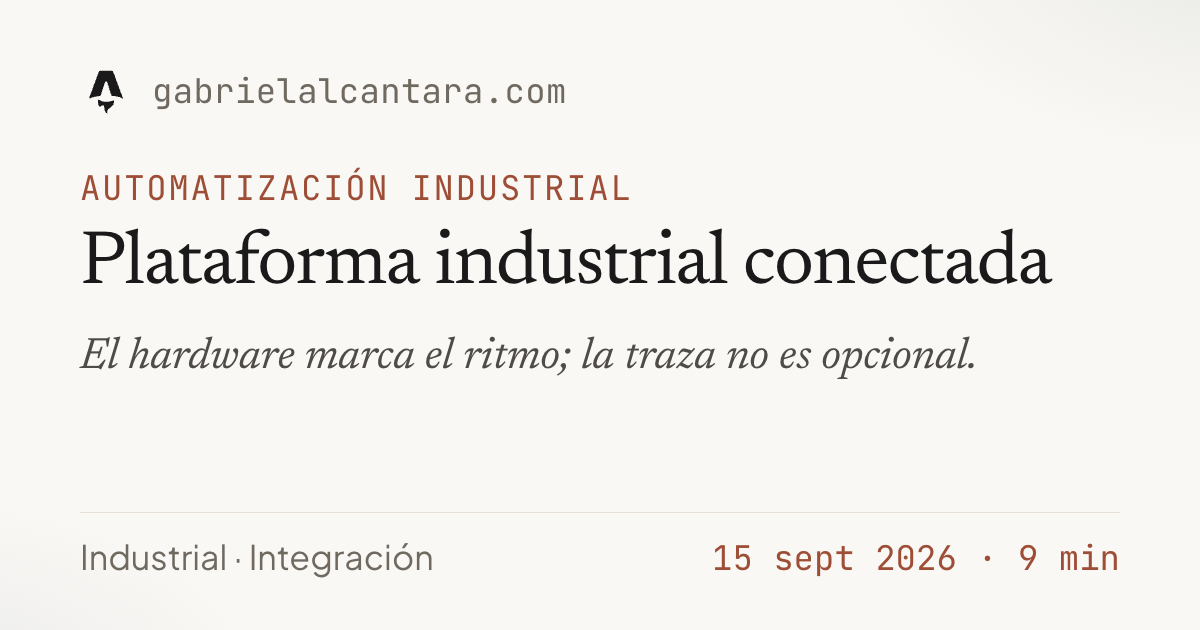
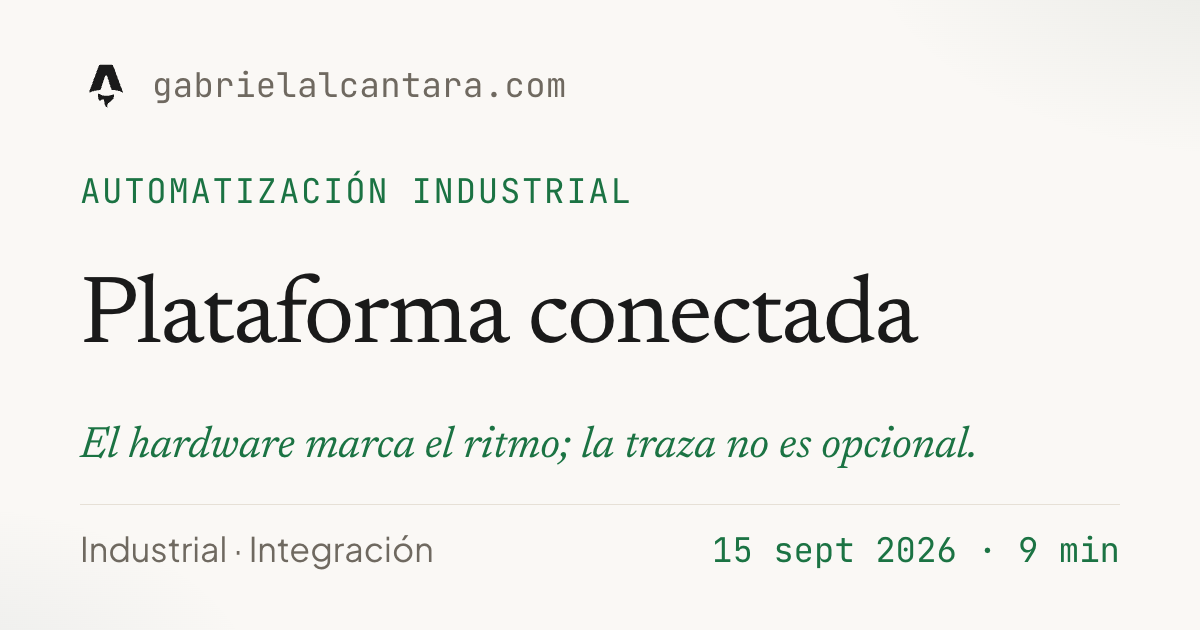
✨ feat(social): green accent and one 58px rhythm
The six spaces around and between the five rows were 71/62/19/54/158/60,
so the card read as three groups rather than one column: the title sat
under a 19px gap while the footer floated 158px below.

The rhythm is now 58px in all six, identical on all eight cards, and the
exporter recomputes the six from each slot's typographic box and refuses
a card where they disagree by more than half a pixel.

It is measured on the box, not on ink. Measuring ink first looked right
and then failed twice: an accent over a capital detaches a four-pixel band
of its own, and a Q tail or a descender moves the bottom edge by up to
24px depending on the words. The box is constant for any text, so the
gaps no longer depend on which card you look at. Ink still varies from 59
to 83px, which is the glyphs dipping into the space, not the grid moving.

That also forced the standfirst to one family on every card: sans and
serif have different ascent boxes, and that difference alone shifted the
gaps above and below the row by six pixels between cards.

The accent is now #1b7343, chosen in OKLCH rather than by eye so only the
hue moved: L 0.4925 against 0.5182 and C 0.1116 against 0.1128 give
contrast 5.53 where the terracotta gave 5.51, and the hue sits next to the
site's sage. Eyebrow and standfirst both carry it.

The title goes from 76px to 96px. The slot budget drops to about 23
characters, so three articles got a shorter cardTitle.

diff --git a/docs/og-image/card.html b/docs/og-image/card.html
@@ -44,26 +44,29 @@
 	   factor of 0.42; 34px arrives on screen at about 14px. */
 	--slot-domain: 34px;
 	--slot-eyebrow: 34px;
-	--slot-title: 76px;
+	--slot-title: 96px;
 	--slot-sub: 44px;
 	--slot-foot: 34px;
 
 	--x: 80px;
 	--width: 1040px;
 
-	/* Top of each line box. These five numbers are the template. */
-	--y-domain: 64px;
-	--y-eyebrow: 168px;
-	--y-title: 224px;
-	--y-sub: 330px;
-	--y-foot: 512px;
+	/* Top of each line box. These five numbers are the template: with the five
+	   slot heights they leave 58px in all six spaces — above the first row,
+	   between every pair, and below the last. Changing a size or a line-height
+	   means re-solving them, which export.mjs checks. */
+	--y-domain: 58px;
+	--y-eyebrow: 171px;
+	--y-title: 278px;
+	--y-sub: 419px;
+	--y-foot: 504px;
 
 	--paper: #faf8f5;
 	--ink: #1a1a1a;
 	--ink-muted: #4f4b47;
 	--ink-faint: #6f6960;
 	--line: #e6e0d6;
-	--accent: #9e4e36;
+	--accent: #1b7343;
 }
 
 * { box-sizing: border-box; margin: 0; padding: 0; }
@@ -143,19 +146,18 @@ html, body { background: var(--paper); }
 	color: var(--ink);
 }
 
+/* One family for the standfirst on every card: the two faces have different
+   ascent boxes, and that difference alone would move the gaps above and below
+   the row by six pixels between cards. */
 .sub {
 	top: var(--y-sub);
 	width: var(--width);
+	font-family: "CardSerif", Georgia, "Times New Roman", serif;
+	font-style: italic;
 	font-size: var(--slot-sub);
 	line-height: 56px;
 	letter-spacing: -.005em;
-	color: var(--ink-muted);
-}
-
-.card[data-kind="case"] .sub,
-.card[data-kind="post"] .sub {
-	font-family: "CardSerif", Georgia, "Times New Roman", serif;
-	font-style: italic;
+	color: var(--accent);
 }
 
 .foot {

diff --git a/src/data/blog.ts b/src/data/blog.ts
@@ -75,7 +75,7 @@ export const POSTS: PostMeta[] = [
 	{
 		slug: "ddd-dominios-complejos",
 		title: "DDD cuando el dominio es complejo",
-		cardTitle: "DDD en dominios complejos",
+		cardTitle: "Dominios complejos",
 		cardSub: "Límites, lenguaje común y decisiones al modelar.",
 		description:
 			"Qué cambia cuando el dominio tiene reglas que no caben en una tabla: límites, lenguaje común y las decisiones que tomé al modelar el inventario de una bodega.",
@@ -89,7 +89,7 @@ export const POSTS: PostMeta[] = [
 	{
 		slug: "websockets-operaciones-tiempo-real",
 		title: "WebSockets para operaciones en tiempo real",
-		cardTitle: "WebSockets en tiempo real",
+		cardTitle: "WebSockets en operación",
 		cardSub: "El canal, el rol y la reconexión como diseño.",
 		description:
 			"Cuando la interfaz deja de ser un formulario y pasa a reflejar el estado de una operación física, el canal, el rol y la reconexión se vuelven parte del diseño.",
@@ -117,7 +117,7 @@ export const POSTS: PostMeta[] = [
 	{
 		slug: "lecciones-plataforma-industrial",
 		title: "Lecciones de diseñar una plataforma industrial conectada",
-		cardTitle: "Plataforma industrial conectada",
+		cardTitle: "Plataforma conectada",
 		cardSub: "El hardware marca el ritmo; la traza no es opcional.",
 		description:
 			"Un almacén automatizado enseña cosas que un CRUD no enseña: el hardware marca el ritmo, las versiones conviven y la trazabilidad no es opcional.",

diff --git a/odd/tasks/og-image-template.md b/odd/tasks/og-image-template.md
@@ -9,7 +9,9 @@ Rama: `feat/og-image-template`. Runner: `pnpm social:cards` + `pnpm test` + `pnp
 - **S1.** «lo unico leíble es el nombre "Gabriel Alcántara"». Ningún elemento de texto de una tarjeta baja de **34 px** en el lienzo de 1200×630, y el exportador termina en error, nombrando el elemento y su tamaño, cuando alguno lo hace. Justificación: a 504 px de ancho (el tamaño real de un feed) el factor es 0.42, así que 34 px llegan como ~14 px; los 16–18 px monoespaciados de hoy llegan como ~7 px.
 - **S2.** «Vamos a montar un sistema como el de `/Users/gabrielalcantara/Documents/personal/projects/sport-analytics/website/docs/og-image`». El lienzo vive en `docs/og-image/card.html` como HTML autónomo, con las fuentes por ruta relativa a `node_modules`, y se previsualiza abriéndolo en el navegador sin servidor ni build.
 - **S3.** La previsualización acepta `?kind=`, `?title=`, `?sub=`, `?eyebrow=`, `?footLeft=`, `?footRight=` y `?scale=`. `?scale=504` dibuja el lienzo al tamaño de un feed, para juzgar la legibilidad sin reducirlo a mano.
-- **S4.** «hay 5 líneas de contenido, que no varien. Siempre igual, uniformidad. Tamaño de la letra fijo» — la tarjeta es una plantilla rígida de cinco ranuras: dominio `34`, antetítulo `34`, título `76`, entradilla `44`, pie `34`. Cada ranura va en una posición vertical fija (64 / 168 / 224 / 330 / 512) y ocupa **una sola línea**; ninguna tarjeta reflowa. Las ocho rellenan las cinco.
+- **S4.** «hay 5 líneas de contenido, que no varien. Siempre igual, uniformidad. Tamaño de la letra fijo» — la tarjeta es una plantilla rígida de cinco ranuras: dominio `34`, antetítulo `34`, título `96`, entradilla `44`, pie `34`. Cada ranura va en una posición vertical fija (58 / 171 / 278 / 419 / 504) y ocupa **una sola línea**; ninguna tarjeta reflowa. Las ocho rellenan las cinco.
+- **S12.** «el color pasalo a verde, manteniendo tonalidad, brillo, contraste» — el acento es `#1b7343`, con L 0.4925 y C 0.1116 en OKLCH frente a 0.5182 y 0.1128 del terracota anterior, y contraste 5.53 contra 5.51 sobre el papel. La entradilla y el antetítulo van en ese acento.
+- **S13.** «Estudia con regla y establece espacios simetricos» — las cinco alturas de caja y las cinco posiciones dejan **58 px en los seis espacios** (arriba, cuatro huecos y abajo), idénticos en las ocho tarjetas, y `export.mjs` lo verifica con tolerancia de 0.5 px.
 - **S5.** No hay ajuste automático. El copy se recorta para encajar y `export.mjs` rechaza la tarjeta cuyo texto no quepa en su ranura, se salga del lienzo, pase de una línea o deje una ranura vacía. Donde antes se encogía el título, ahora falla el export.
 - **S10.** «habría que ajustar los copys para que entren» — el título corto de cada artículo vive en `PostMeta.cardTitle` y su entradilla en `PostMeta.cardSub`; `title` y `description` de la página no cambian. Las entradillas de caso se recortan en `tagline`, que ya era copy de tarjeta.
 - **S11.** El antetítulo y la entradilla de la tarjeta por defecto se derivan de `SITE.location` y `SITE.roles`: ninguna cadena nueva que pueda desincronizarse.
@@ -93,6 +95,23 @@ Copy resultante (`cardTitle` / `cardSub`; entradillas de caso en `tagline`):
 | Por defecto | Gabriel Alcántara | Software Architect · Software Engineer |
 
 La primera pasada de la puerta contó 6 ranuras en vez de 5: contaba elementos con texto y el pie tiene dos. Se corrigió marcando cada ranura con `data-slot`, así la comprobación es «las cinco, todas con texto» en lugar de un recuento de nodos.
+
+### L9 · jerarquía, color y retícula
+
+> noto inconsistencia visual, de jerarquia. el color pasalo a verde, manteniendo tonalidad, brillo, contraste y demás. En color accent Barcelona, remoto, Software Architect. Incrementa el tamaño de Gabriel Alcántara para que el espacio entre las letras inferiores e inferiore sea el mismo. Estudia con regla y establece espacios simetricos.
+
+Medido antes de tocar: los seis espacios eran **71 / 62 / 19 / 54 / 158 / 60**. Ahí estaba la inconsistencia — un hueco de 19 px entre antetítulo y título y otro de 158 px antes del pie.
+
+Cómo se resolvió:
+
+1. Color por OKLCH, no por ojo: se conservaron L y C del terracota y se movió solo el tono a 154° (la familia del sage del sitio, 156°). El contraste resultante es 5.53 contra 5.51.
+2. Título a 96 px: el presupuesto de la ranura baja a ~23 caracteres, así que se recortaron tres `cardTitle` (`Dominios complejos`, `WebSockets en operación`, `Plataforma conectada`).
+3. La retícula se resolvió por geometría, no por píxeles. Primero intenté medir con bandas de tinta y descubrí dos cosas: un acento sobre mayúscula (`AUTOMATIZACIÓN`) crea una banda separada de 4 px, y los descendentes mueven el borde inferior. Se cambió a **caja tipográfica por ranura**, que es constante para todo texto: dispersión 0.00 entre las ocho tarjetas y 58 px exactos en los seis espacios.
+4. La entradilla pasó a ser una sola familia (serif itálica) en las ocho: sans y serif tienen cajas de ascenso distintas y esa diferencia movía los huecos de arriba y abajo de la fila 6 px entre tarjetas.
+
+La tinta sigue variando (59–83 px) porque la cola de la `Q` y los descendentes de `g`, `y`, `p` ocupan parte del hueco. Eso es del glifo, no del sistema: la línea base no se mueve, que es lo que gobierna el ritmo.
+
+Se comprobó en rojo desviando `--y-sub` 10 px: el exportador responde «los seis espacios no son simétricos: [58.0, 58.0, 58.0, 68.0, 48.0, 58.0], dispersión 20.0px».
 
 ### L6 · verificación
 

diff --git a/docs/og-image/README.md b/docs/og-image/README.md
@@ -10,23 +10,46 @@ the browser, and export when the copy or the layout changes.
 
 The card is a rigid template: **five slots, one line each, nothing reflows.**
 
-| # | Slot | Size | Top | Holds |
-| --- | --- | --- | --- | --- |
-| 1 | domain | 34 px | 64 | the mark and `gabrielalcantara.com` |
-| 2 | eyebrow | 34 px | 168 | terracotta label: category, `Caso de estudio · Company`, place |
-| 3 | title | 76 px | 224 | the name or the headline |
-| 4 | sub | 44 px | 330 | role, tagline or standfirst |
-| 5 | foot | 34 px | 512 | stack or tags on the left, years or date on the right |
+| # | Slot | Size | Top | Box | Holds |
+| --- | --- | --- | --- | --- | --- |
+| 1 | domain | 34 px | 58 | 52 | the mark and `gabrielalcantara.com` |
+| 2 | eyebrow | 34 px | 171 | 45 | green label: category, `Caso de estudio · Company`, place |
+| 3 | title | 96 px | 278 | 96 | the name or the headline |
+| 4 | sub | 44 px | 419 | 44 | standfirst, always serif italic |
+| 5 | foot | 34 px | 504 | 45 | stack or tags on the left, years or date on the right |
 
 All five are filled on every card. There is no auto-fit and no second line: the
 copy is edited until it fits, which is why the articles carry their own
 `cardTitle` and `cardSub` in `src/data/blog.ts` while the page keeps its longer
 `title` and `description`.
 
+## The rhythm
+
+Those five box heights and five tops leave **58 px in all six spaces**: above the
+first row, between every pair, and below the last. The exporter recomputes the six
+from the typographic box of each slot and refuses the card when they disagree by
+more than half a pixel, so the rhythm cannot rot.
+
+The spacing is measured on the box, not on ink. A `Q` tail, an accent over a
+capital or the descender of a `g` dips into the space below without moving it;
+measuring ink would make the gaps depend on which words a card happens to use.
+That is also why the standfirst is one family on every card: the sans and the
+serif have different ascent boxes, and that difference alone moved the gaps above
+and below the row by six pixels between cards.
+
+Changing a size or a line-height means re-solving the five `--y-*` values. Set
+them by measuring — the six spaces tell you when they are right — and let the
+exporter confirm it.
+
 `export.mjs` enforces it. It measures the rendered card and refuses to write a
 PNG when a slot is empty, wraps to a second line, overflows its width, falls
-outside the canvas or drops below 34 px. It also refuses an image that is not
-exactly 1200×630 or heavier than `--max-kb`.
+outside the canvas, drops below 34 px, or breaks the 58 px rhythm. It also
+refuses an image that is not exactly 1200×630 or heavier than `--max-kb`.
+
+The accent is `#1b7343`: OKLCH L 0.4925 and C 0.1116, against 0.5182 and 0.1128
+for the terracotta it replaced, so the perceived lightness, the saturation and
+the contrast against the paper (5.53 vs 5.51) stayed put while the hue moved into
+the family of the site's sage.
 
 34 px is the floor because the canvas is not what people see: a timeline draws
 the card near 504 px wide, a factor of 0.42, so 34 px arrives on screen at about
